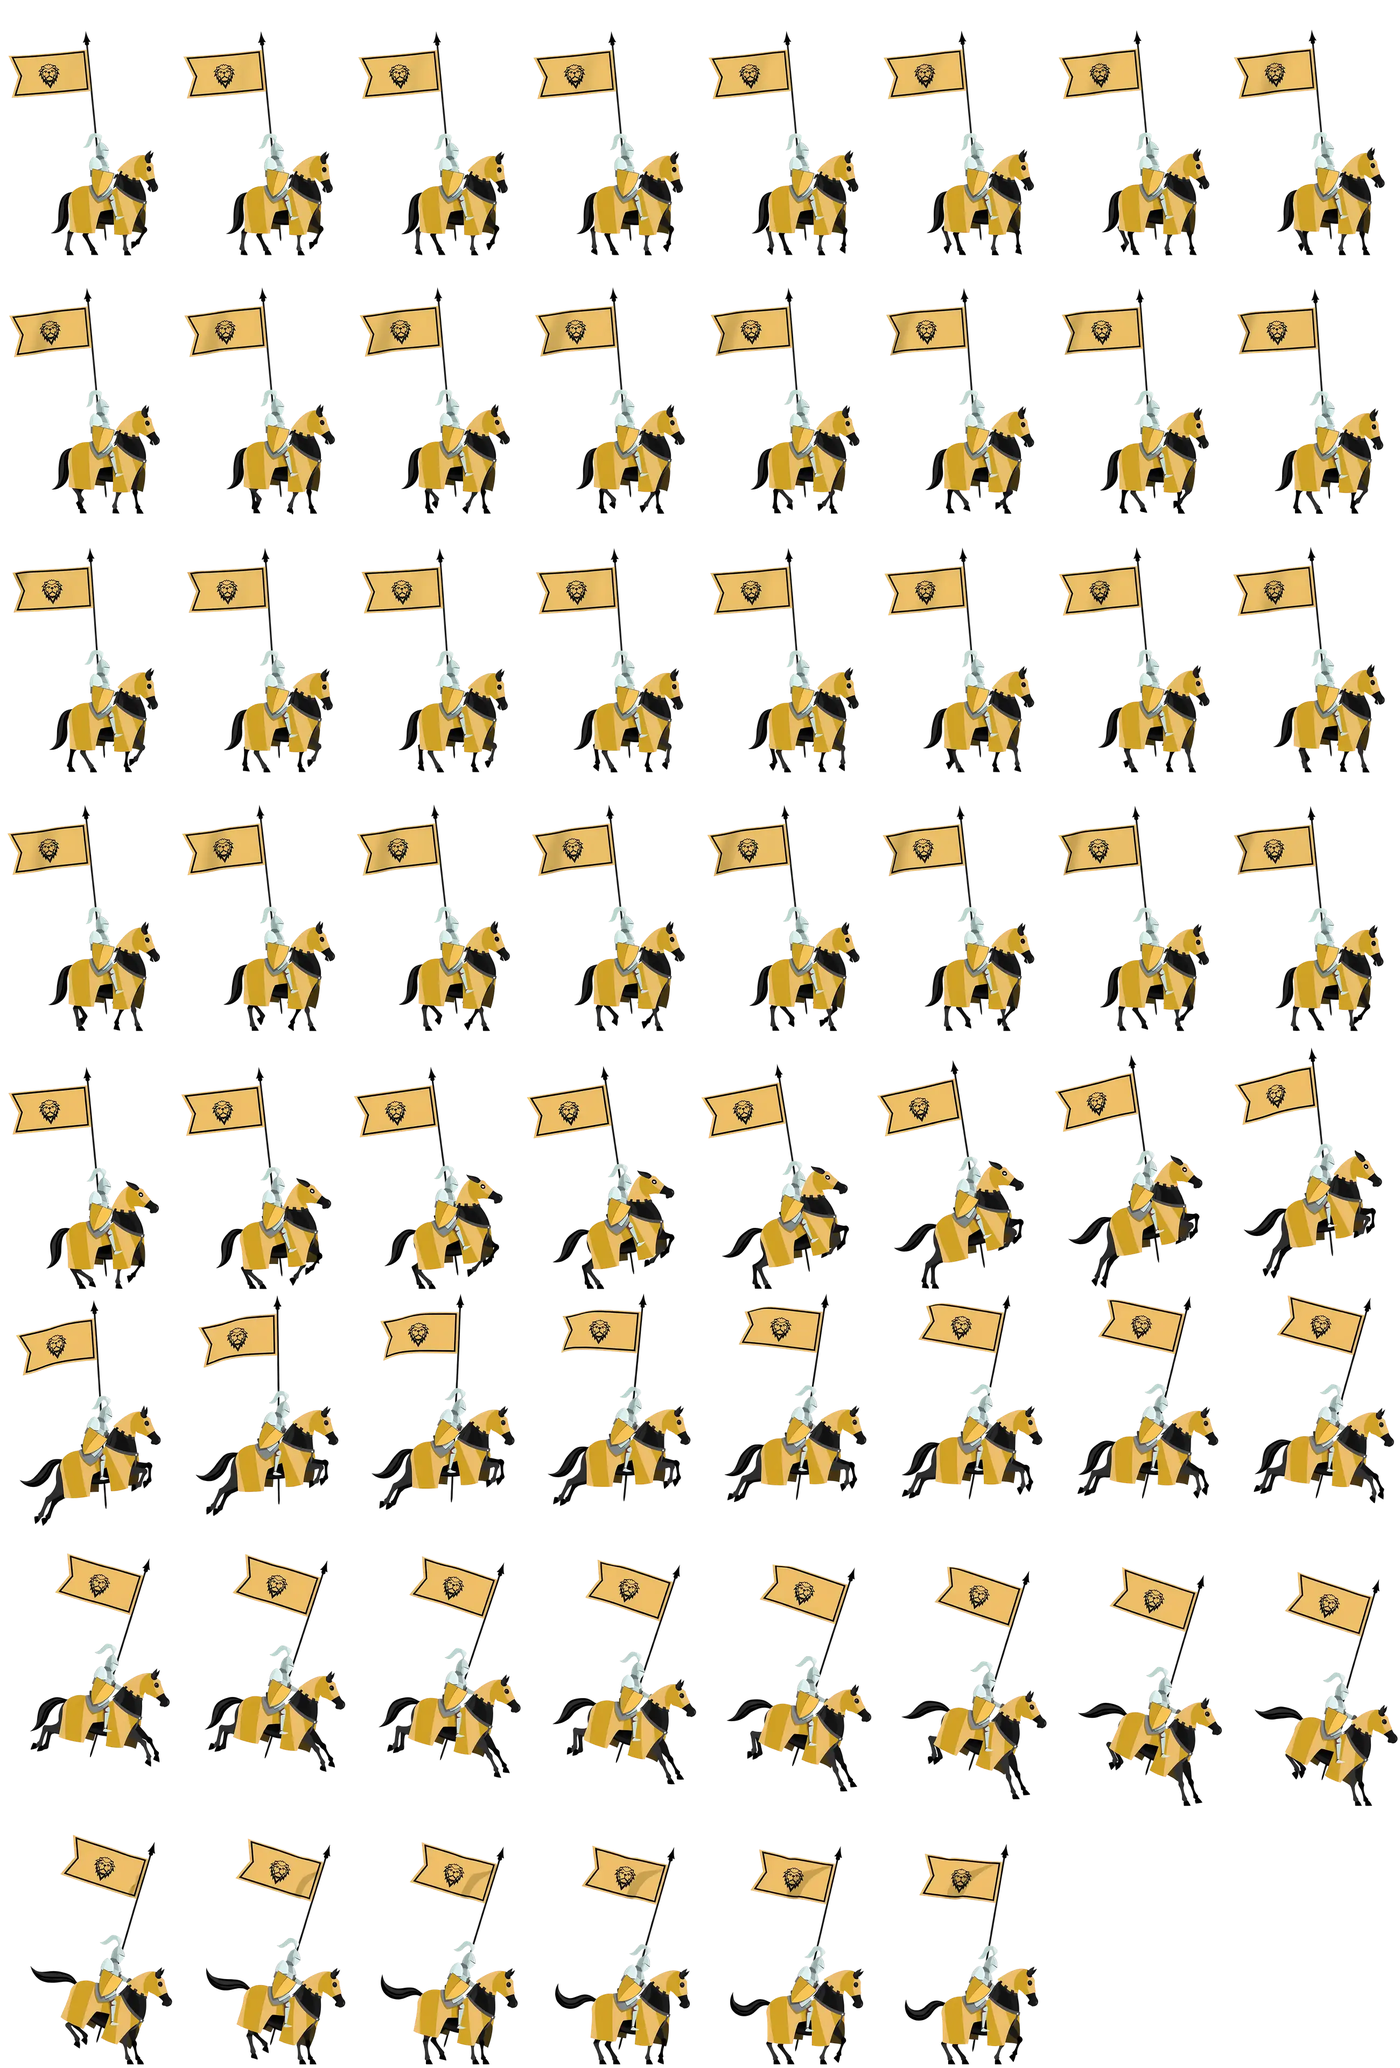
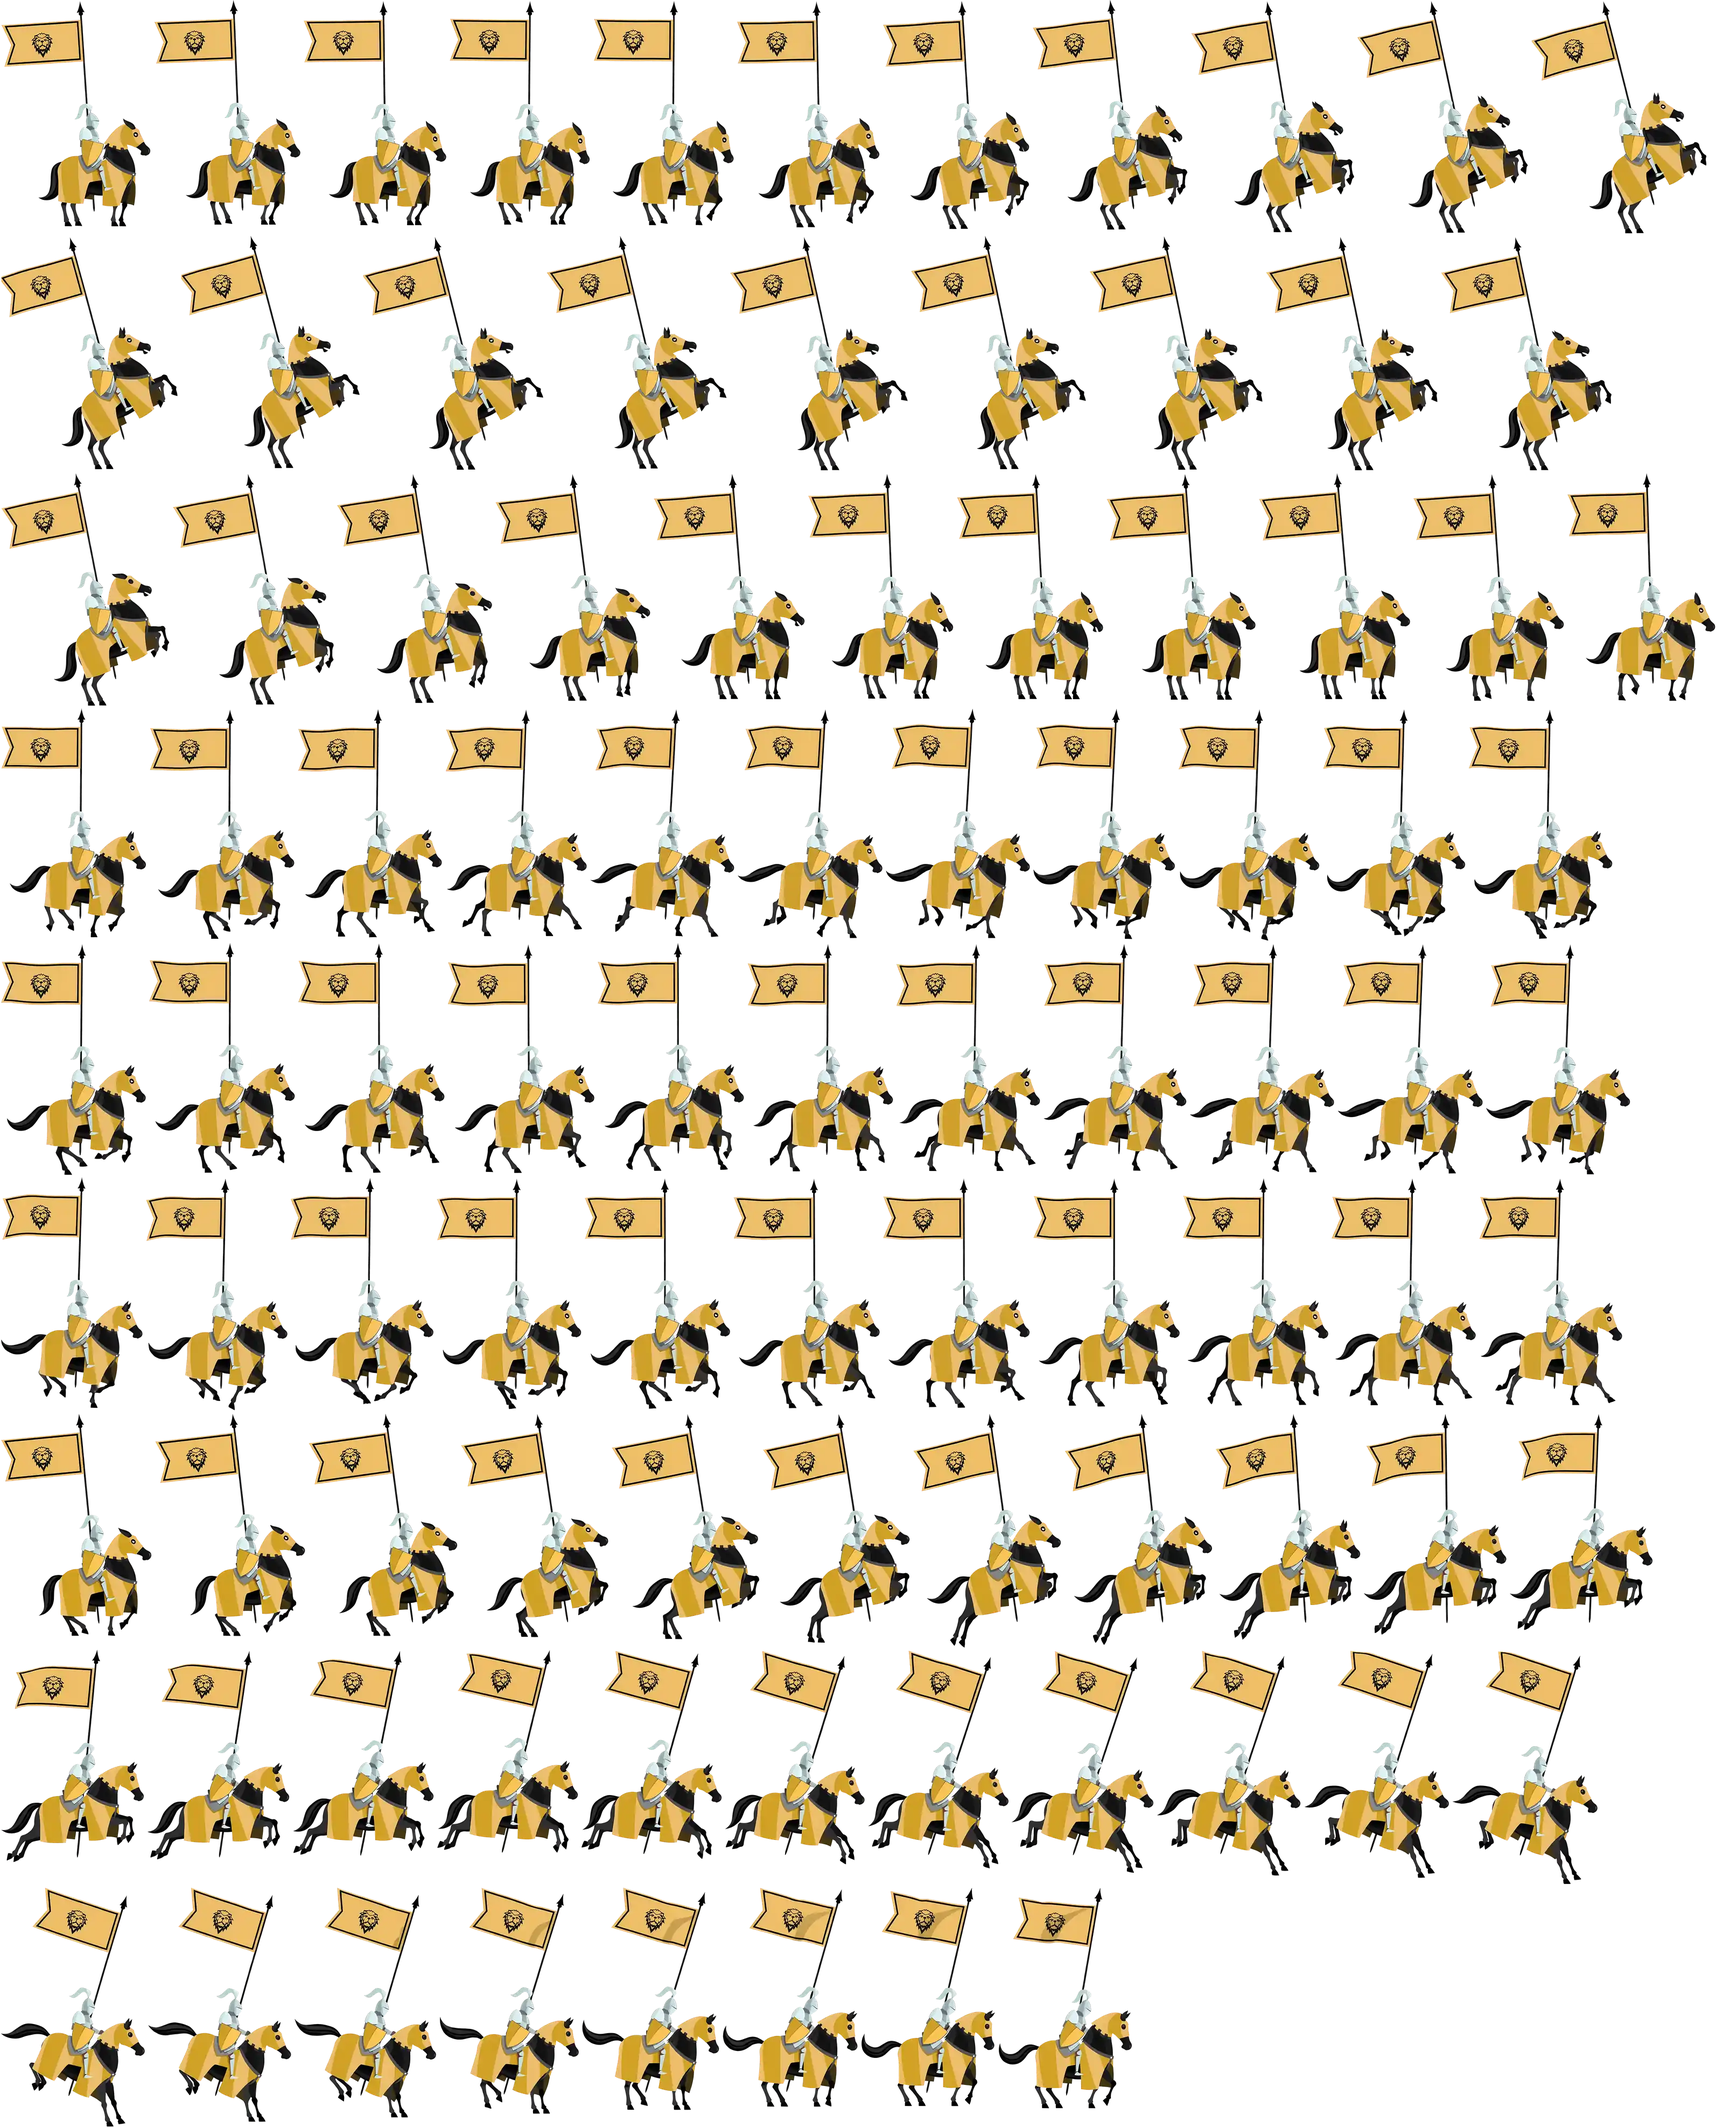
gallop

diff --git a/src/notFound/game.js b/src/notFound/game.js
@@ -9,13 +9,17 @@ const SIZE = 0.53;
 const KNIGHT = SIZE / sheet.scale;
 const UNIT = SIZE / 0.26;
 const VIEW_H = 680;
-const GROUND = 4;
-const GRASS = { w: 1439, h: 40 };
+const GROUND = 3;
+const GRASS = { w: 1439, h: 40, scale: 0.7 };
 const PLAY_X = 80;
 const RIDE_IN = 0.8;
+const REAR_FPS = 16;
+const GALLOP_FPS = 24;
 const JUMP = { from: 2, gather: 0.1, air: 0.75, land: 0.3, lift: 165 };
 const JUMP_TIME = JUMP.gather + JUMP.air + JUMP.land;
 const SPEED = { start: 320 * UNIT, max: 760 * UNIT, gain: 9 * UNIT };
+const SPEED_UP = { after: 20, factor: 2 };
+const ROCK_GAPS = { spread: 1.2, tightest: 0.25, over: 60 };
 const ROCKS = [
   { url: bigRockUrl, w: 100 * UNIT },
   { url: smallRockUrl, w: 44 * UNIT },
@@ -86,7 +90,11 @@ export async function startGame(root) {
     loadImage(grassUrl),
     ...ROCKS.map((rock) => loadImage(rock.url)),
   ]);
-  const grass = raster(grassImage, GRASS.w, GRASS.h);
+  const grass = raster(
+    grassImage,
+    GRASS.w * GRASS.scale,
+    GRASS.h * GRASS.scale,
+  );
   const rockKinds = ROCKS.map((rock, i) => {
     const image = rockImages[i];
     const art = raster(image, rock.w, (rock.w * image.height) / image.width);
@@ -102,12 +110,14 @@ export async function startGame(root) {
     canvas.replaceWith(scene);
   }
 
-  const [cellW, cellH] = sheet.cell;
-  const knightW = cellW * KNIGHT;
-  const knightH = cellH * KNIGHT;
+  const [canvasW, canvasH] = sheet.canvas;
+  const knightW = canvasW * KNIGHT;
+  const knightH = canvasH * KNIGHT;
   const bin = sheet.bin * KNIGHT;
+  const footGap =
+    (canvasH - Math.max(...sheet.under[sheet.intro.start])) * KNIGHT;
   const hoofHeight = (i) =>
-    cellH - Math.max(...sheet.under[sheet.jump.start + i]);
+    canvasH - Math.max(...sheet.under[sheet.jump.start + i]);
   const takeoff = Array.from({ length: sheet.jump.count }, (_, i) => i).find(
     (i) => hoofHeight(i) > hoofHeight(0) + 3,
   );
@@ -126,9 +136,11 @@ export async function startGame(root) {
     state = {
       status: "ready",
       speed: SPEED.start,
+      time: 0,
       distance: 0,
       rocks: [],
       nextRock: 0,
+      rear: 0,
       run: 0,
       jump: null,
       queued: false,
@@ -157,17 +169,21 @@ export async function startGame(root) {
     const u = (t - JUMP.gather - JUMP.air) / JUMP.land;
     return { i: along(touchdown, sheet.jump.count, u), lift: 0 };
   };
-  const frame = () =>
-    state.jump === null
-      ? sheet.walk.start + (Math.floor(state.run) % sheet.walk.count)
-      : sheet.jump.start + jumpPose().i;
+  const frame = () => {
+    if (state.status === "ready") return sheet.intro.start;
+    if (state.status === "rearing") {
+      return sheet.intro.start + Math.floor(state.rear * REAR_FPS);
+    }
+    if (state.jump !== null) return sheet.jump.start + jumpPose().i;
+    return sheet.gallop.start + (Math.floor(state.run) % sheet.gallop.count);
+  };
   const lift = () => (state.jump === null ? 0 : jumpPose().lift);
   const landing = () =>
     state.jump !== null && state.jump >= JUMP.gather + JUMP.air;
 
   const hits = () => {
     const under = sheet.under[frame()];
-    const top = groundY - knightH - lift();
+    const top = groundY - knightH + footGap - lift();
     const left = knightX();
     for (const rock of state.rocks) {
       const { art, top: edge } = rockKinds[rock.kind];
@@ -195,23 +211,21 @@ export async function startGame(root) {
       const { art } = rockKinds[rock.kind];
       ctx.drawImage(art, Math.round(rock.x), groundY - art.height);
     }
-    const i = frame();
-    const col = i % sheet.cols;
-    const row = Math.floor(i / sheet.cols);
+    const [x, y, w, h, offsetX, offsetY] = sheet.frames[frame()];
     ctx.drawImage(
       knightImage,
-      col * (cellW + sheet.gap),
-      row * (cellH + sheet.gap),
-      cellW,
-      cellH,
-      knightX(),
-      Math.round(groundY - knightH - lift()),
-      knightW,
-      knightH,
+      x,
+      y,
+      w,
+      h,
+      knightX() + offsetX * KNIGHT,
+      Math.round(groundY - knightH + footGap - lift() + offsetY * KNIGHT),
+      w * KNIGHT,
+      h * KNIGHT,
     );
-    const offset = state.distance % GRASS.w;
-    for (let x = -Math.round(offset); x < width; x += GRASS.w) {
-      ctx.drawImage(grass, x, height - GRASS.h);
+    const offset = state.distance % grass.width;
+    for (let x = -Math.round(offset); x < width; x += grass.width) {
+      ctx.drawImage(grass, x, height - grass.height);
     }
     if (dither) {
       gl.texImage2D(
@@ -233,18 +247,31 @@ export async function startGame(root) {
     const score = Math.floor(state.distance * SCORE_PER_PX);
     const parts = [];
     if (best) parts.push(`HI ${pad(best)}`);
-    if (state.status !== "ready") parts.push(pad(score));
+    if (state.status === "running" || state.status === "over") {
+      parts.push(pad(score));
+    }
     scoreEl.textContent = parts.join("  ");
   };
 
   const step = (dt) => {
+    if (state.status === "rearing") {
+      state.rear += dt;
+      if (state.rear * REAR_FPS >= sheet.intro.count) {
+        state.status = "running";
+        state.nextRock = width * 0.6;
+      }
+      return;
+    }
     slide = Math.min(1, slide + dt / RIDE_IN);
-    state.speed = Math.min(SPEED.max, state.speed + SPEED.gain * dt);
+    state.time += dt;
+    const gain =
+      SPEED.gain * (state.time > SPEED_UP.after ? SPEED_UP.factor : 1);
+    state.speed = Math.min(SPEED.max, state.speed + gain * dt);
     const travel = state.speed * dt;
     state.distance += travel;
 
     const pace = (state.speed - SPEED.start) / (SPEED.max - SPEED.start);
-    state.run += dt * 24 * (1.8 + 1.2 * pace);
+    state.run += dt * GALLOP_FPS * (1 + 0.4 * pace);
 
     if (state.jump !== null) {
       state.jump += dt;
@@ -265,7 +292,10 @@ export async function startGame(root) {
     if (state.nextRock <= 0) {
       state.rocks.push({ kind: Math.random() < 0.45 ? 0 : 1, x: width + 20 });
       const room = state.speed * (JUMP.gather + JUMP.air + 0.35) + 120 * UNIT;
-      state.nextRock = room * (1 + Math.random() * 1.2);
+      const tighten = Math.min(1, state.time / ROCK_GAPS.over);
+      const spread =
+        ROCK_GAPS.spread - (ROCK_GAPS.spread - ROCK_GAPS.tightest) * tighten;
+      state.nextRock = room * (1 + Math.random() * spread);
     }
   };
 
@@ -285,8 +315,7 @@ export async function startGame(root) {
 
   const start = () => {
     reset();
-    state.status = "running";
-    state.nextRock = width * 0.6;
+    state.status = "rearing";
     promptEl.style.visibility = "hidden";
     last = 0;
     requestAnimationFrame(tick);
@@ -310,6 +339,7 @@ export async function startGame(root) {
       if (performance.now() - state.endedAt > 500) start();
       return;
     }
+    if (state.status === "rearing") return;
     if (state.jump === null || landing()) state.jump = 0;
     else if (state.jump > JUMP.gather + JUMP.air - 0.15) state.queued = true;
   };
